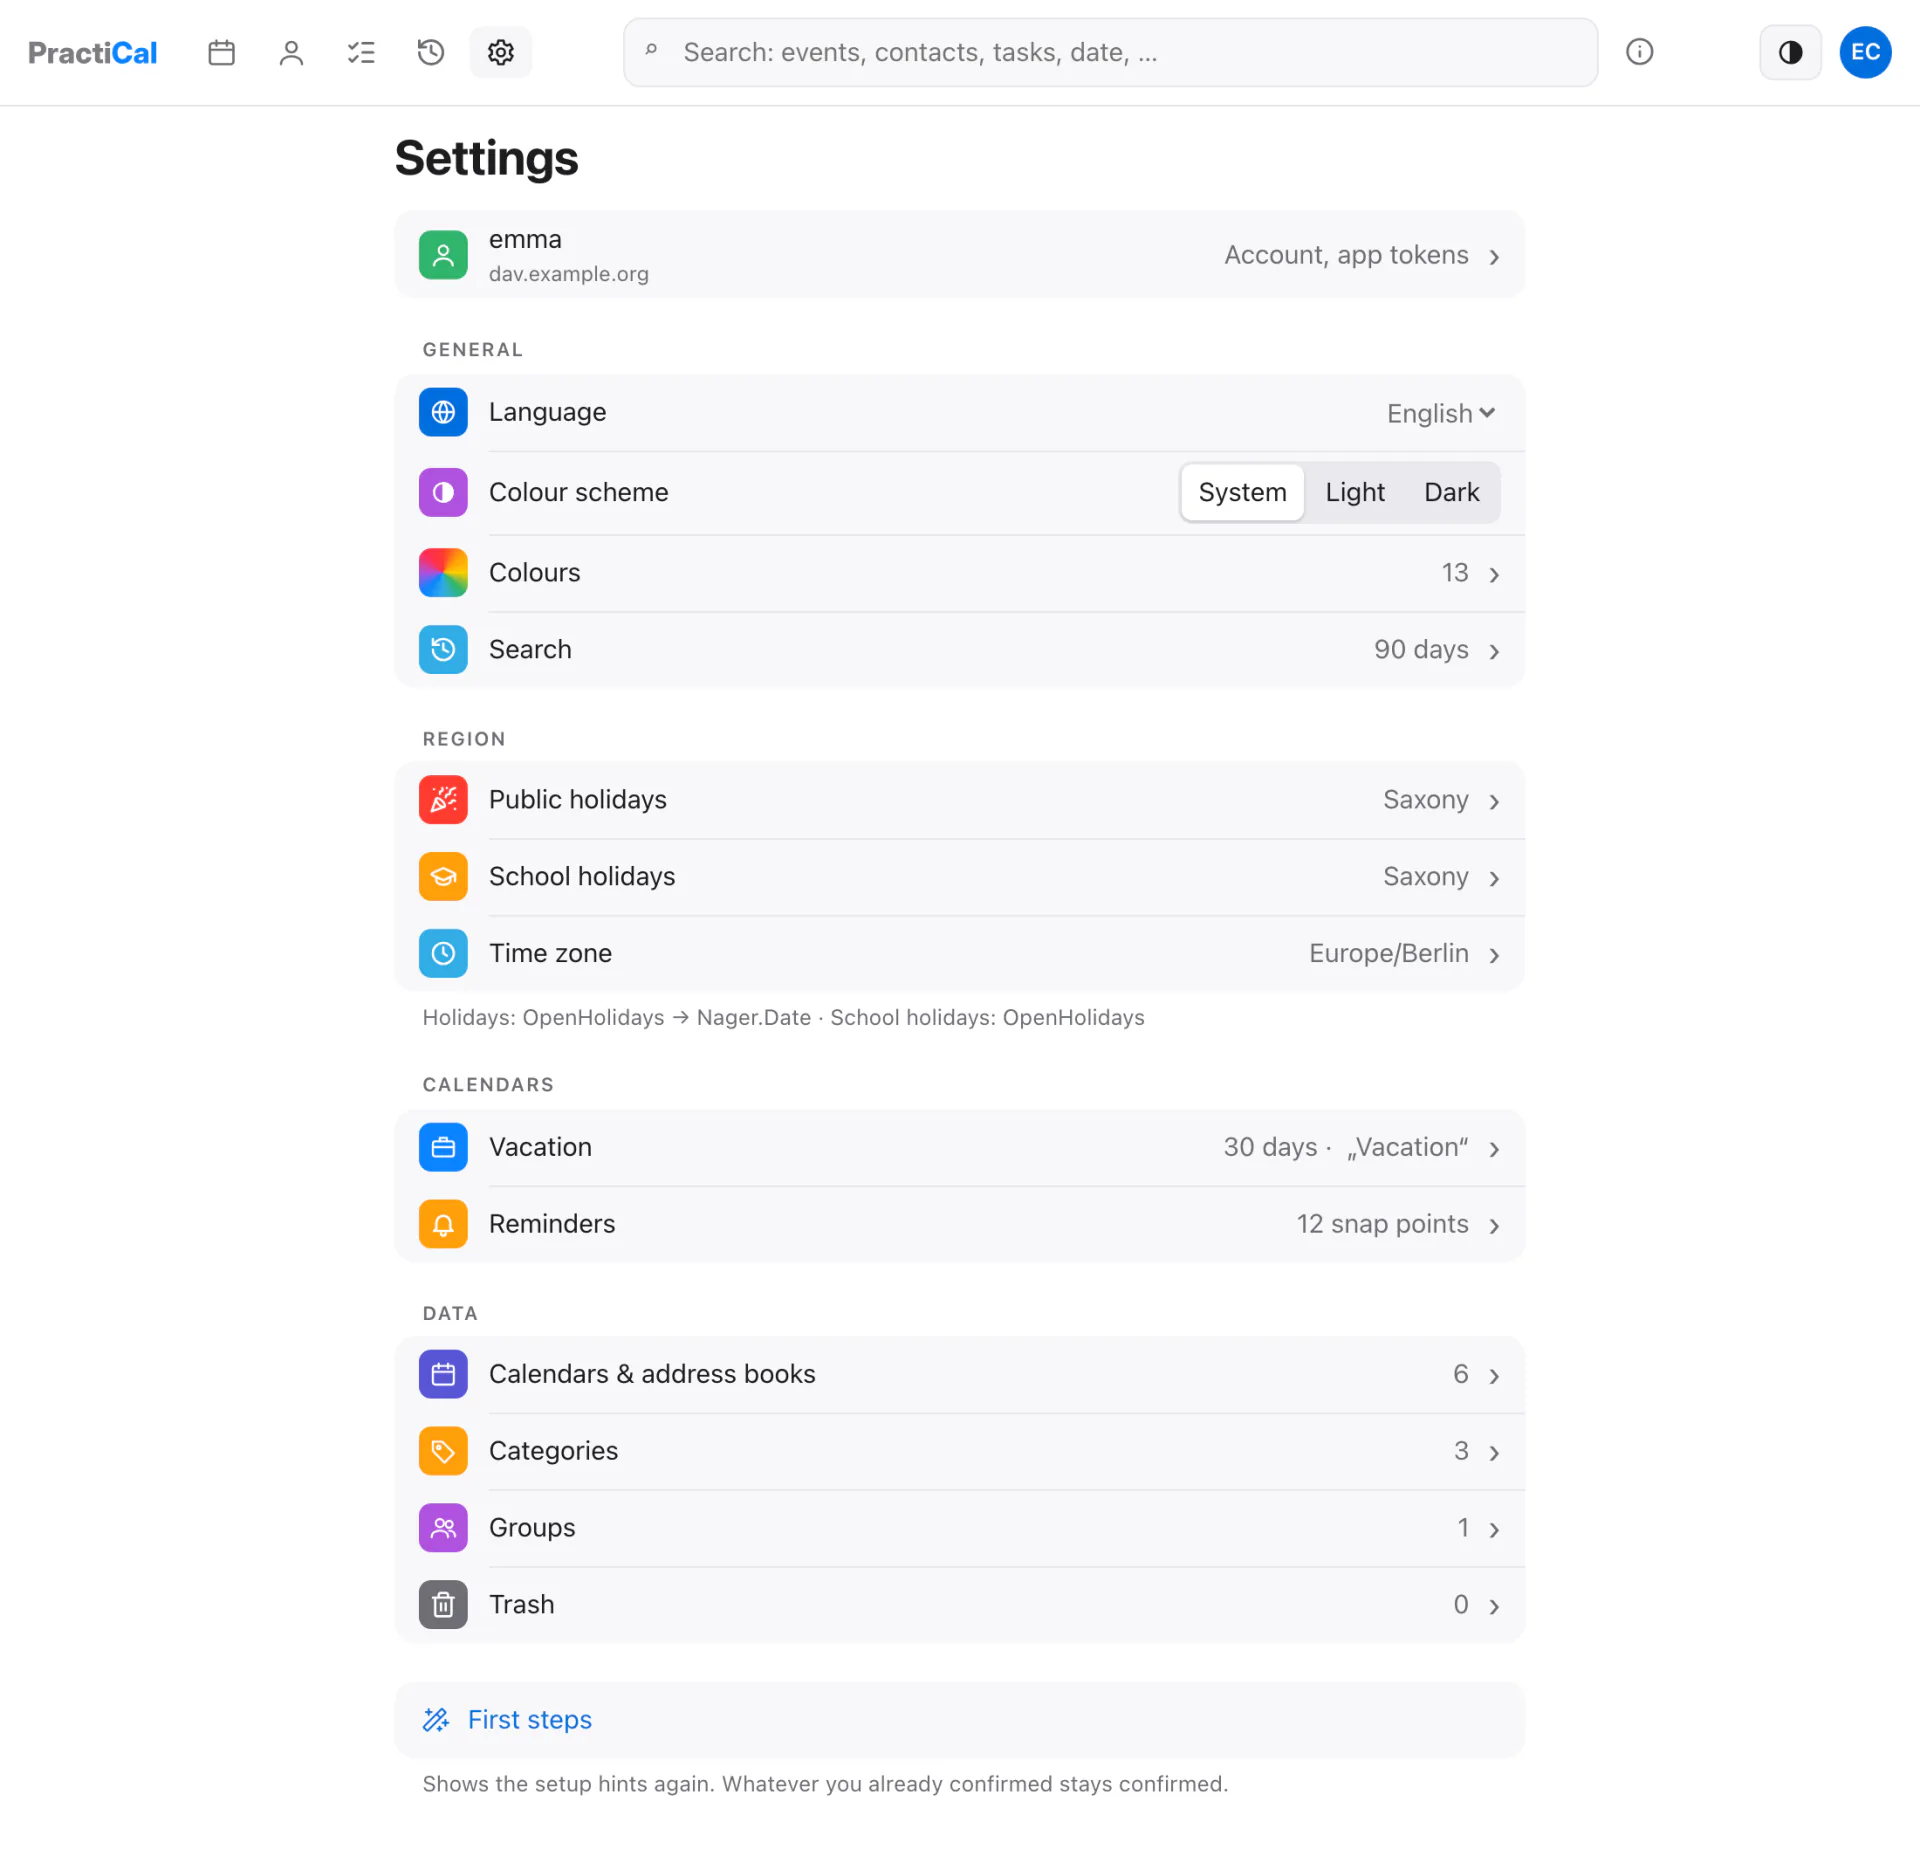
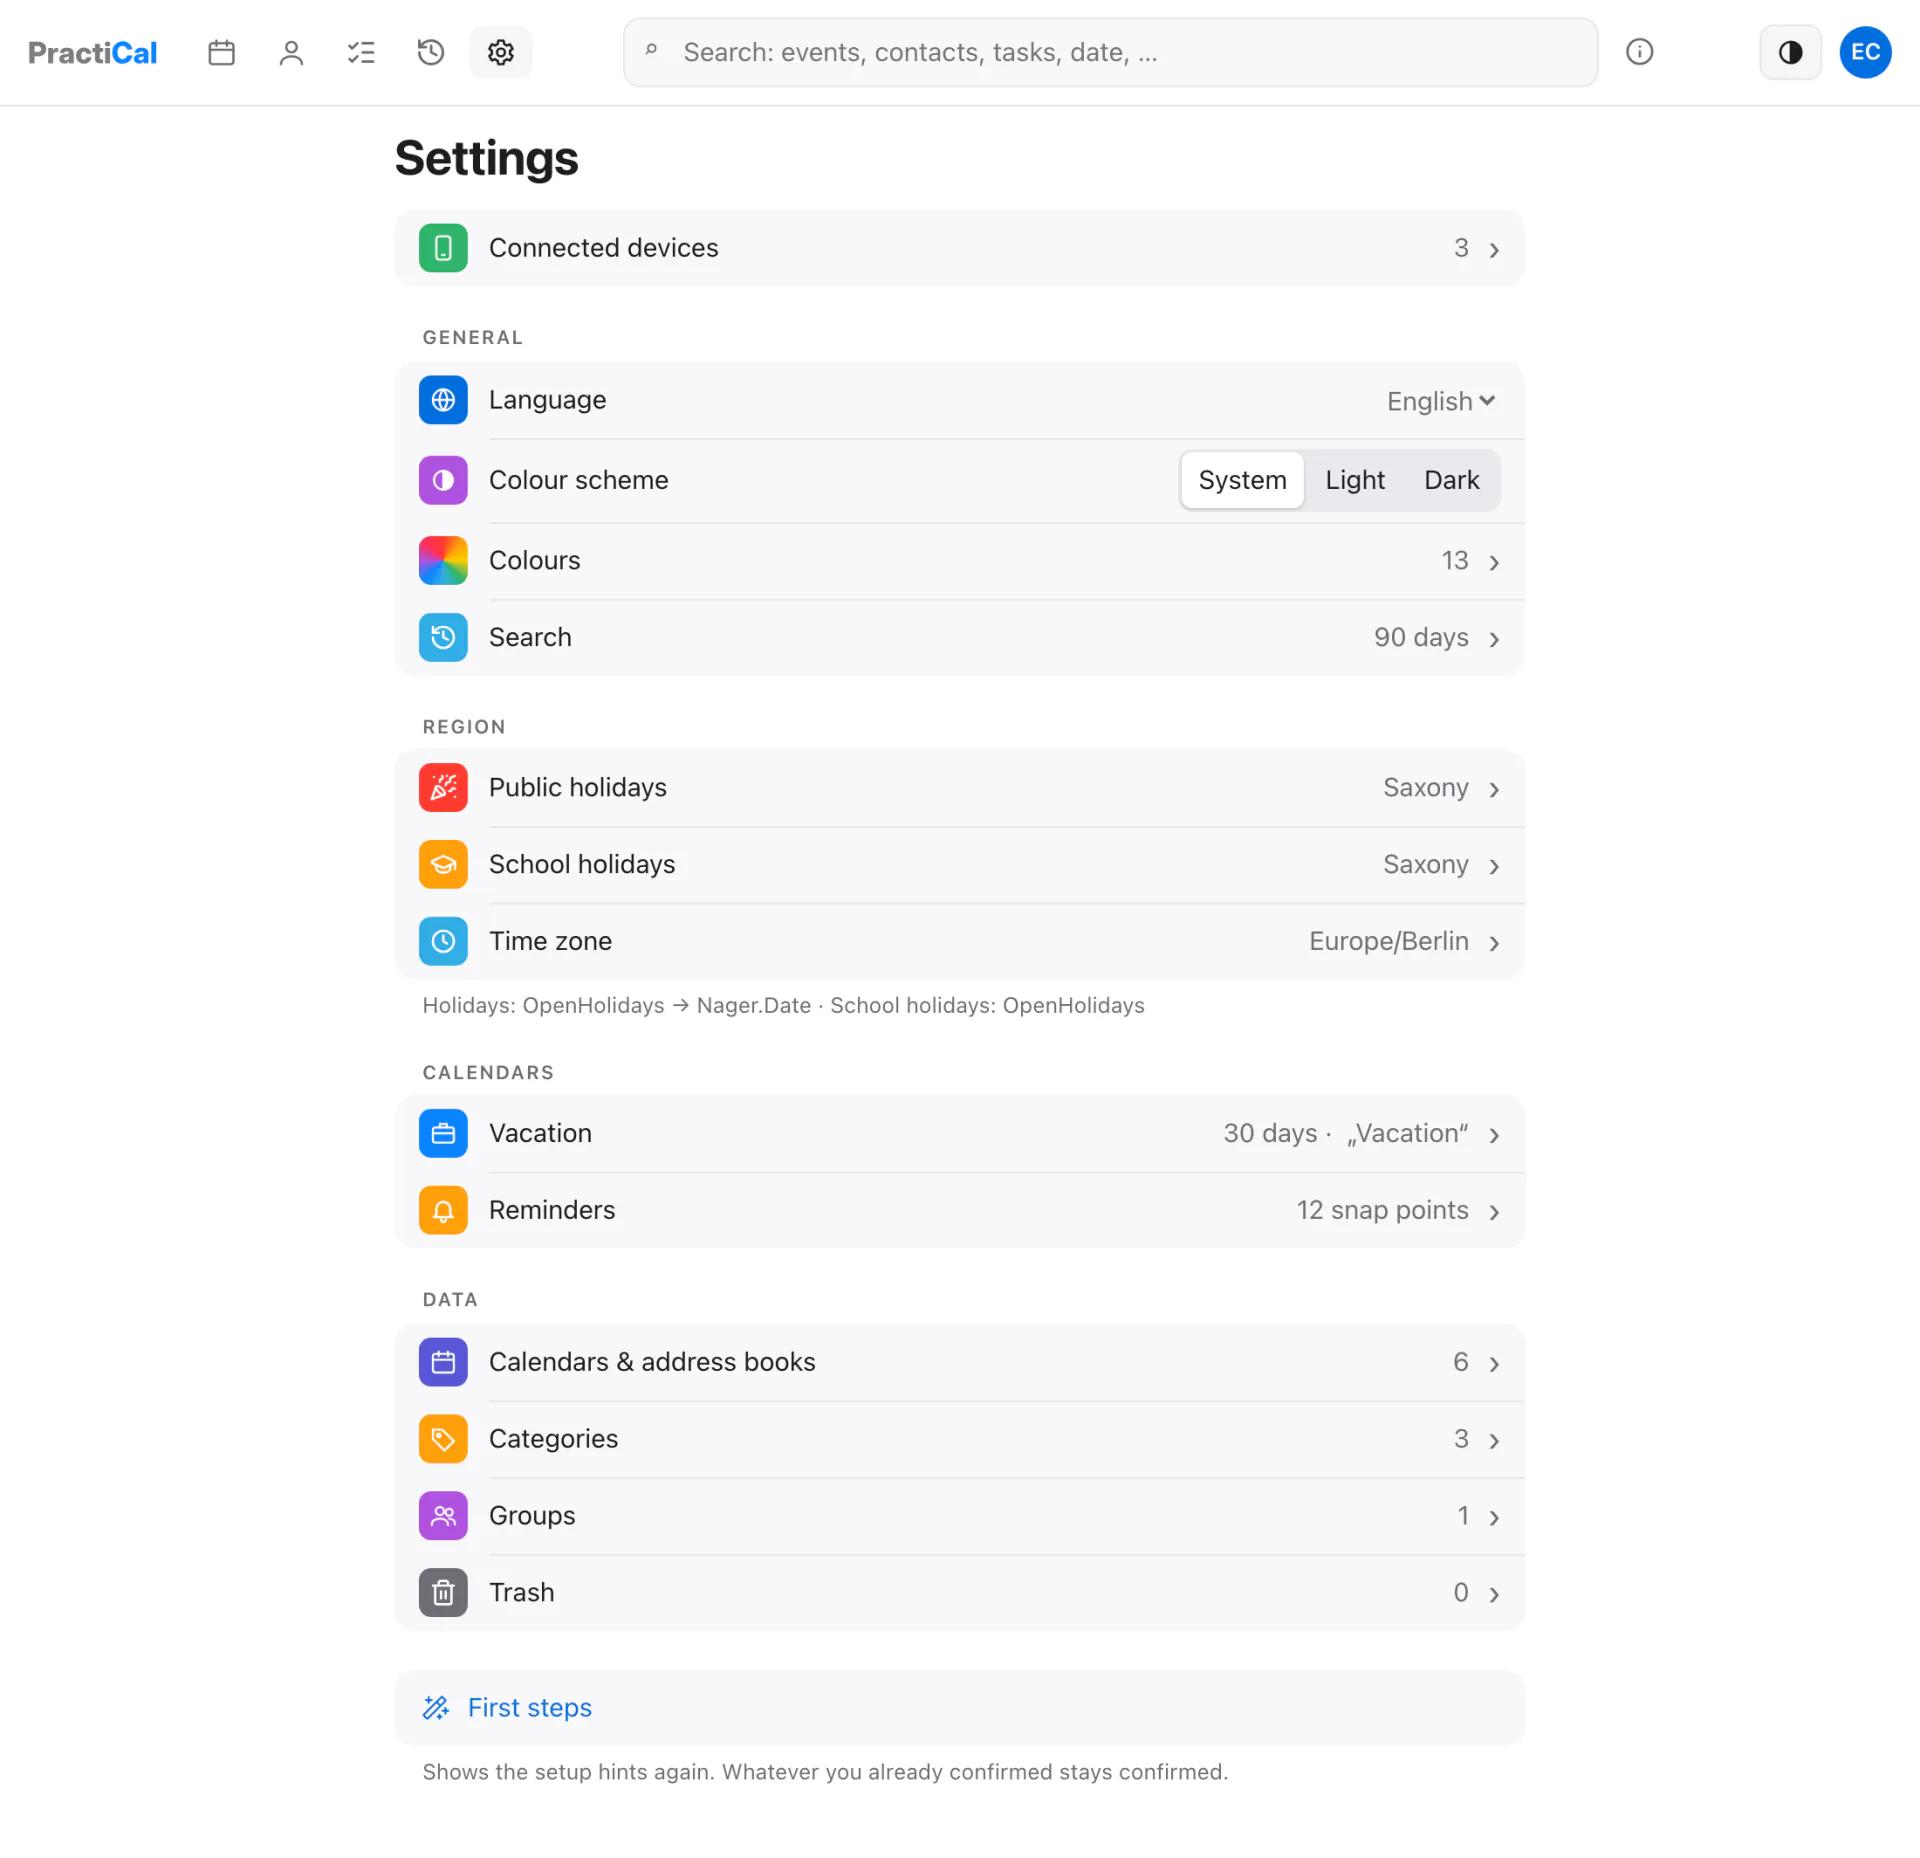
feat(settings): the first settings tile is "Connected devices"
## Intent

The tile showed the user's name and the server address, and its page ended with an "Account" section with the same
two. Both are elsewhere already (the avatar menu top right, the browser's address bar); the page is about devices.

## Key changes

The settings start page's first tile reads "Connected devices" with a smartphone symbol and the number of connected
devices; its page carries the same title and no longer has the "Account" section.

## Details

- templates/settings.html: the tile via `m::nav_cell` (smartphone, `tokens.len()`); "Account" group removed.
- routes/settings.rs: `dav_host` removed (its only use was that group).
- locales: `tab-account` = "Verbundene Geräte" / "Connected devices" / "Appareils connectés" / "Dispositivos
  conectados"; `set-account`, `set-account-sub` removed (de/en/fr/es).
- docs: "Settings → Connected devices → Add a device" (features, configuration, commands); shots 27-settings and
  31-app-tokens retaken, caption of 31.

Verified: mise run gate-quick (400 Rust, 202 functional) + mise run a11y (0 new, 0 stale) green.

diff --git a/build/templates/settings.html b/build/templates/settings.html
@@ -15,7 +15,7 @@
 <section class="page" id="home">
   <h1>{{ ctx.t("nav-settings") }}</h1>
   <div class="group">
-    <a class="cell link" href="#account"><span class="swatch" style="background:var(--c2)">{{ m::ico("user") }}</span><span>{{ ctx.user_id() }}<span class="sub">{{ ctx.public_dav_url.trim_start_matches("https://").trim_start_matches("http://") }}</span></span><span class="val">{{ ctx.t("set-account-sub") }}<span class="chev">›</span></span></a>
+    {% call m::nav_cell("#account", "var(--c2)", "smartphone") %}<span>{{ ctx.t("tab-account") }}</span><span class="val">{{ tokens.len() }}{% endcall %}
   </div>
   <div class="label">{{ ctx.t("tab-general") }}</div>
   <div class="group">
@@ -340,10 +340,6 @@
     {% if tokens.is_empty() %}<div class="cell noic"><span class="muted">{{ ctx.t("devices-none") }}</span></div>{% endif %}
   </div>
   <p class="foot">{{ ctx.t("devices-foot") }}</p>
-  <div class="label">{{ ctx.t("set-account") }}</div>
-  <div class="group">
-    <div class="cell"><span class="swatch" style="background:var(--c2)">{{ m::ico("user") }}</span><span>{{ ctx.user_id() }}<span class="sub">{{ self.dav_host() }}</span></span></div>
-  </div>
 </section>
 
 {# "add a device": one page per step, wizard frame of connect.css. Two paths: on the Android device itself

diff --git a/build/assets/css/connect.css b/build/assets/css/connect.css
@@ -1,4 +1,4 @@
-/* css/connect.css — Konto & Apps: the device hero, "add a device" (one .page.wiz per step, templates/settings.html)
+/* css/connect.css — Connected devices: the device hero, "add a device" (one .page.wiz per step, templates/settings.html)
    and the confirmation page an app opens (templates/connect.html). Two paths: .oa = on the Android device itself,
    .od = on another one; js/shell/settings-connect.js sets #settings[data-android] (no JS: the other-device path) */
 .settings:not([data-android="1"]) .oa, .settings[data-android="1"] .od { display: none !important; }

diff --git a/build/src/routes/settings.rs b/build/src/routes/settings.rs
@@ -202,10 +202,6 @@ impl SettingsPage {
     pub fn device_icon(&self, name: &str) -> &'static str {
         crate::domain::connect::device_icon(name)
     }
-    /// the host the DAV apps reach (the manual page's first row)
-    pub fn dav_host(&self) -> &str {
-        self.ctx.public_dav_url.trim_start_matches("https://").trim_start_matches("http://")
-    }
     pub fn scheme_is(&self, s: &str) -> bool {
         self.prefs.scheme.as_deref().unwrap_or("auto") == s
     }

diff --git a/docs/features.md b/docs/features.md
@@ -398,7 +398,7 @@ would be quietly incomplete.
 ### Connect your phone and other devices
 
 Calendar apps on your phone or computer never use your login password. Each device gets its own password, made for
-that device only. **Settings → Account & apps → Add a device** walks you through it:
+that device only. **Settings → Connected devices → Add a device** walks you through it:
 
 - **Android:** the assistant recommends the app DAVx⁵ and links every place to get it: Google Play, F-Droid (free),
   Galaxy Store, AppGallery and GitHub. On the phone, one tap on **Connect with DAVx⁵** opens DAVx⁵ with this server

diff --git a/docs/commands.md b/docs/commands.md
@@ -66,7 +66,7 @@ $R principals --help                                         # everything else
 Calendar apps never use this password. The DAV server accepts only app tokens. You create an app token in one of two
 ways:
 
-- In PractiCal: **Settings → Account & apps → Add a device** (DAVx⁵ on Android gets its token by itself; **Manual**
+- In PractiCal: **Settings → Connected devices → Add a device** (DAVx⁵ on Android gets its token by itself; **Manual**
   creates one to copy).
 - With the CLI: `rustical principals app-token create --name <device> <id>`.
 

diff --git a/docs/configuration.md b/docs/configuration.md
@@ -88,7 +88,7 @@ Users sign in to PractiCal in one of two ways: with a password, or with single s
 offer both.
 
 In both cases, a user is a RustiCal **principal**. A principal is RustiCal's word for a user or a group. Calendar
-apps never use the login password: each device gets its own app token in PractiCal's settings (**Account & apps →
+apps never use the login password: each device gets its own app token in PractiCal's settings (**Connected devices →
 Add a device**).
 
 ### Password login
